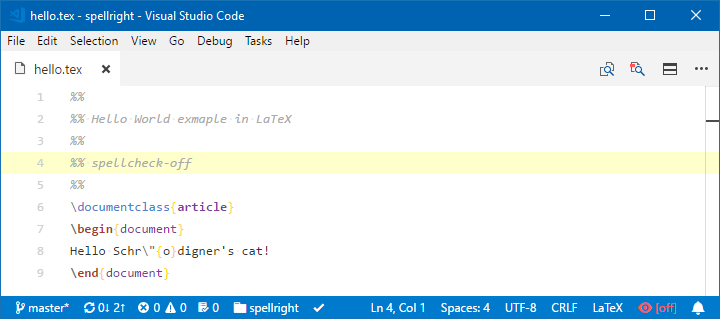
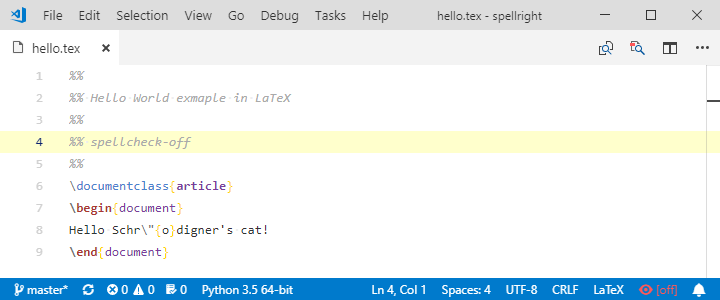
Screenshots update

diff --git a/README.md b/README.md
@@ -72,21 +72,13 @@ When spelling source code class of document which provides symbol information fo
 
 Spelling of **plain text**/**markdown**/**LaTeX** documents:
 
-![screenshot](media/screenshot-default-markdown.png)
-
-![screenshot](media/screenshot-default-latex.png)
+![screenshot](media/screenshot-documents.png)
 
 ### Source Code & Markup Documents
 
 It can spell *strings*/*comments* parts of most **source code** (*C++*, *Python*, *JavaScript*, *Batch* and lots of others) and *text*/*comment* nodes on **XML**/**HTML** class documents:
 
-![screenshot](media/screenshot-cpp.png)
-
-![screenshot](media/screenshot-python.png)
-
-![screenshot](media/screenshot-batch.png)
-
-![screenshot](media/screenshot-html.png)
+![screenshot](media/screenshot-code.png)
 
 ## Usage
 

diff --git a/CHANGELOG.md b/CHANGELOG.md
@@ -1,5 +1,9 @@
 # Change Log
 
+## **2.5.34** released on 22nd August 2018
+
+- **Change:** Screenshots updated.
+
 ## **2.5.32** released on 21st August 2018
 
 - **New:** Added spelling for 'eliksir' document type ([#198](https://github.com/bartosz-antosik/vscode-spellright/issues/198)).
